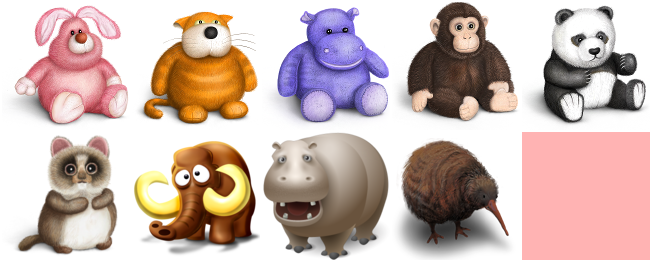
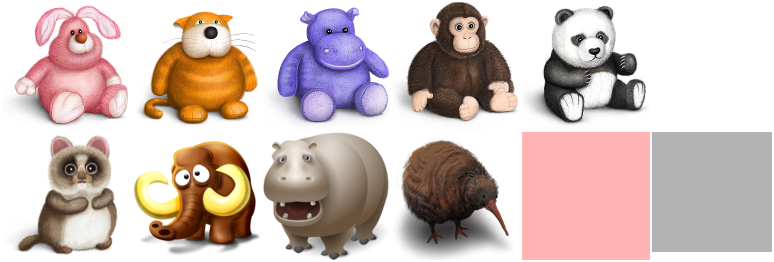
add known cell background to resources

diff --git a/Classes/SudokuBox.cpp b/Classes/SudokuBox.cpp
@@ -56,7 +56,11 @@ bool SudokuBox::initWithStageData(const StageData& data) {
 		if (value < 0 || value >= 9)
 			continue;
 
-		Sprite* sprite = Sprite::createWithSpriteFrame(SpriteFrameCache::getInstance()->getSpriteFrameByName(FRAME_NAME[value]));
+		auto sprite = Sprite::createWithSpriteFrame(SpriteFrameCache::getInstance()->getSpriteFrameByName(FRAME_NAME[KNOWN_MASK_INDEX]));
+		sprite->setPosition(Vec2((index % m_iCols) * CELL_SIZE + CELL_SIZE / 2, (m_iRows - index / m_iCols) * CELL_SIZE - CELL_SIZE / 2));
+		this->addChild(sprite);
+
+		sprite = Sprite::createWithSpriteFrame(SpriteFrameCache::getInstance()->getSpriteFrameByName(FRAME_NAME[value]));
 		sprite->ignoreAnchorPointForPosition(false);
 		sprite->setAnchorPoint(Vec2(0, 1));
 		sprite->setPosition(Vec2((index % m_iCols) * CELL_SIZE, (m_iRows - index / m_iCols) * CELL_SIZE));
@@ -246,9 +250,9 @@ void SudokuBox::draw(Renderer *renderer, const Mat4& transform, uint32_t flags) 
 }
 
 void SudokuBox::onDraw(const Mat4& transform) {
-	//if the grid has only one row/col, dont draw the grid, because the grid maybe make player be confused.
-	if (m_stagedata.rows_per_grid <= 1 || m_stagedata.cols_per_grid <= 1)
-		return;
+//	//if the grid has only one row/col, dont draw the grid, because the grid maybe make player be confused.
+//	if (m_stagedata.rows_per_grid <= 1 || m_stagedata.cols_per_grid <= 1)
+//		return;
 
 	int rows = m_stagedata.grids_in_row;
 	int cols = m_stagedata.grids_in_col;
@@ -263,12 +267,12 @@ void SudokuBox::onDraw(const Mat4& transform) {
 	CHECK_GL_ERROR_DEBUG();
 
 	//draw the grid with difference colors.
-	Color4B gridColors[] = {
-			Color4B(0, 255, 255, 255),
-			Color4B(255, 0, 255, 255)
+	Color4F gridColors[] = {
+			Color4F(0, 255, 255, 255),
+			Color4F(255, 0, 255, 255)
 		};
 
-	int linW = 3;
+	int linW = 2;
 	glLineWidth(linW);
 	Size size = getContentSize();
 	float width = size.width / cols;
@@ -276,17 +280,33 @@ void SudokuBox::onDraw(const Mat4& transform) {
 
 	for (int i = 0; i < rows; i++) {
 		for (int j = 0; j < cols; j++) {
-			Color4B cl = gridColors[(j+(i%2))%2];
-			DrawPrimitives::setDrawColor4B(cl.r, cl.g, cl.b, cl.a);
+			Color4F cl = gridColors[(j+(i%2))%2];
 			Vec2 vertices[] = {
 					Vec2(width*j+linW, height*i+linW),
 					Vec2(width*j+linW, height*(i+1)-linW),
 					Vec2(width*(j+1)-linW, height*(i+1)-linW),
 					Vec2(width*(j+1)-linW, height*i+linW)
 			};
-			DrawPrimitives::drawPoly(vertices, 4, true);
+			DrawPrimitives::drawSolidPoly(vertices, 4, cl);
 		}
 	}
+
+//	//draw a mask on know cell's background
+//	Color4F cellColor(0, 0, 0, 10);
+//	rows = m_stagedata.rows_per_grid * m_stagedata.grids_in_row;
+//	cols = m_stagedata.cols_per_grid * m_stagedata.grids_in_col;
+//	width = size.width / cols;
+//	height = size.height / rows;
+//	linW += 2;
+//	for (int i = 0; i < rows; i++) {
+//		for (int j = 0; j < cols; j++) {
+//			if (m_stagedata.cell_data[i * cols + j] > 0) {
+//				DrawPrimitives::drawSolidRect(Vec2(width * j + linW, size.height - height * i - linW),
+//						Vec2(width * (j+1) - linW, size.height - height * (i + 1) + linW),
+//						cellColor);
+//			}
+//		}
+//	}
 
 	CHECK_GL_ERROR_DEBUG();
 	director->popMatrix(MATRIX_STACK_TYPE::MATRIX_STACK_MODELVIEW);

diff --git a/Classes/Const.h b/Classes/Const.h
@@ -15,13 +15,14 @@ static const char* KEYNAME_EXTERNAL_DATA_PATH = "external_data_path";
 static const char* KEY_SUFFIX_STAGE_STATUS = "_stage_status";
 
 static const char* const FRAME_NAME[] = {
-		"1.png", "2.png", "3.png", "4.png", "5.png", "6.png", "7.png", "8.png", "9.png", "error_mask.png"
+		"1.png", "2.png", "3.png", "4.png", "5.png", "6.png", "7.png", "8.png", "9.png", "error_mask.png", "knownbg.png"
 	};
 
 static const int MAX_NUMBERS = 9;
 static const int MAX_CELLS = 81;		// 9*9
 
 static const int ERROR_MASK_INDEX = 9;
+static const int KNOWN_MASK_INDEX = 10;
 
 static const int CELL_SIZE = 140;
 

diff --git a/Classes/MainScene.cpp b/Classes/MainScene.cpp
@@ -61,7 +61,7 @@ bool MainScene::init() {
 	this->addChild(btnCampaign, 1);
 
 
-	//Campaign Button
+	//Random Stage Button
 	auto btnRandom = ui::Button::create("btn-menu-0.png",
 											  "btn-menu-1.png",
 											  "btn-menu-2.png");
